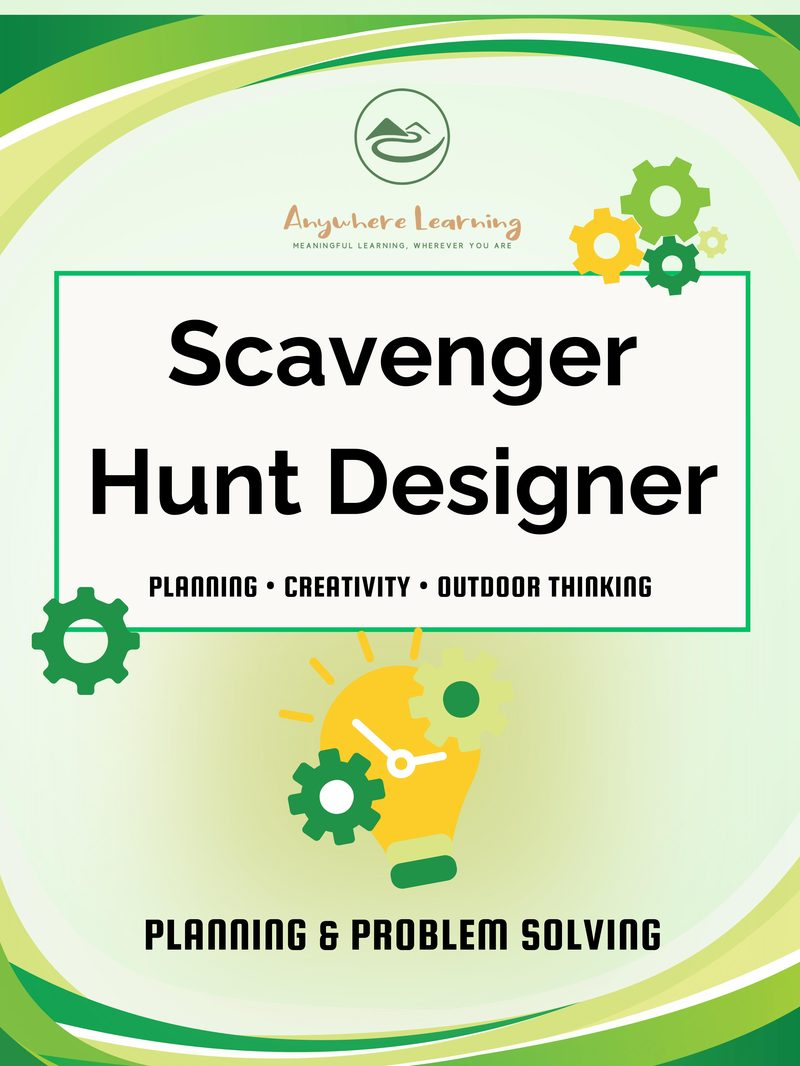
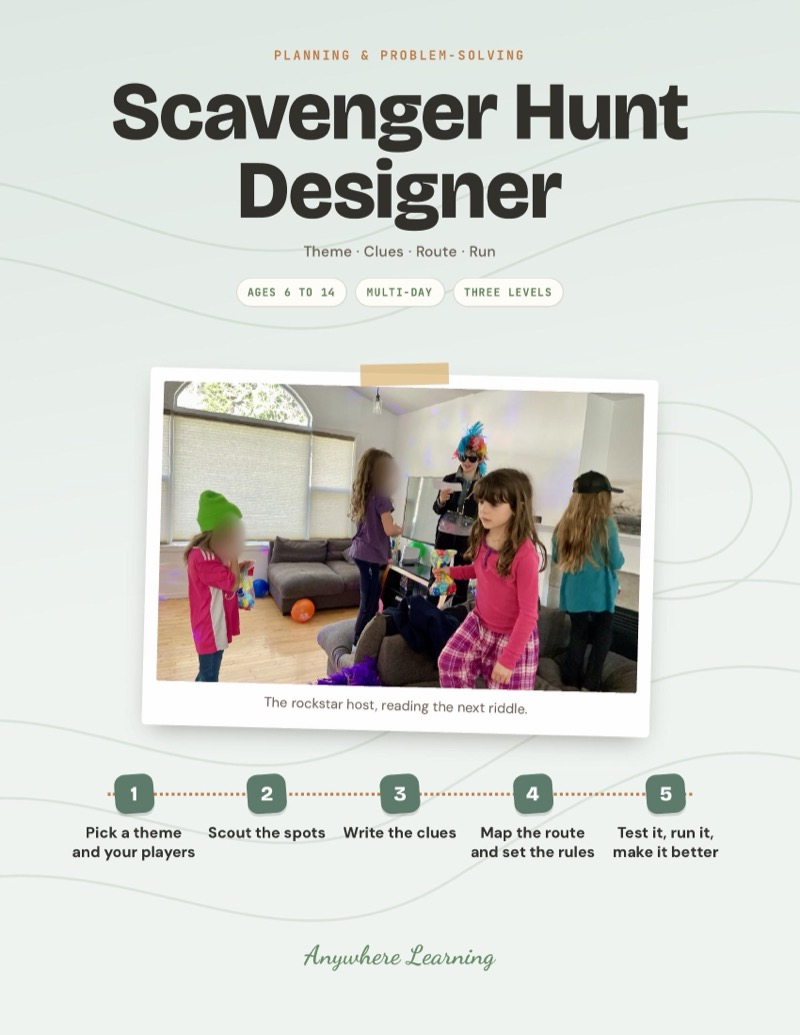
Scavenger Hunt Designer: redesigned guide, birthday hunt story + photo, new listing, planning and creativity tags

diff --git a/scripts/seed.ts b/scripts/seed.ts
@@ -115,7 +115,7 @@ async function seed() {
     { name: 'Neighbourhood Problem Spotter', slug: 'neighbourhood-problem-spotter', description: 'Your child walks the neighbourhood with you and looks at it like a detective. They spot what could work better, pick one problem worth solving, gather real evidence and find out why it happens. Then they design the simplest fix that could work, pitch it to someone who can say yes, and take care of one small part themselves.', shortDescription: 'Civic problem-solving for kids ages 6-14: spot a real problem nearby, find the cause and pitch a simple fix.', priceCents: 599, compareAtPriceCents: null, stripePriceId: '', blobUrl: '', imageUrl: '/products/neighbourhood-problem-spotter.jpg', category: 'planning-problem-solving', isBundle: false, bundleProductIds: null, activityCount: null, ageRange: 'Ages 6–14', sortOrder: 133, active: true },
     { name: 'Outdoor Survival Planner', slug: 'outdoor-survival-planner', description: 'Your child learns what to do when something goes wrong outside, the calm way. They pick a scenario like a lost trail or a storm, put the priorities in order, take stock of what is in the pack and practise real skills with you. Then they handle a twist and write the trip plan your family takes on its next outing.', shortDescription: 'Outdoor safety activity for kids ages 6-14: learn survival priorities, practise real skills and plan a real outing.', priceCents: 599, compareAtPriceCents: null, stripePriceId: '', blobUrl: '', imageUrl: '/products/outdoor-survival-planner.jpg', category: 'planning-problem-solving', isBundle: false, bundleProductIds: null, activityCount: null, ageRange: 'Ages 6–14', sortOrder: 134, active: true },
     { name: 'Pack Like a Pro', slug: 'pack-like-a-pro', description: 'Your child packs their own bag for a real trip. They work out what the trip actually needs, list everything they want, cut it down to fit real limits, then pack it and test it with some what-ifs. After the trip, they see what came home unused and build a packing list they can use year after year.', shortDescription: 'Life skill for kids ages 6-14: pack their own bag for a real trip, make real trade-offs and build a reusable list.', priceCents: 599, compareAtPriceCents: null, stripePriceId: '', blobUrl: '', imageUrl: '/products/pack-like-a-pro.jpg', category: 'planning-problem-solving', isBundle: false, bundleProductIds: null, activityCount: null, ageRange: 'Ages 6–14', sortOrder: 135, active: true },
-    { name: 'Scavenger Hunt Designer', slug: 'scavenger-hunt-designer', description: 'Design, create, and test your own scavenger hunts for friends and family.', shortDescription: 'Design your own scavenger hunts.', priceCents: 599, compareAtPriceCents: null, stripePriceId: '', blobUrl: '', imageUrl: '/products/scavenger-hunt-designer.jpg', category: 'planning-problem-solving', isBundle: false, bundleProductIds: null, activityCount: null, ageRange: 'Ages 6–14', sortOrder: 136, active: true },
+    { name: 'Scavenger Hunt Designer', slug: 'scavenger-hunt-designer', description: 'Your child designs and runs a real scavenger hunt for the family. They pick a theme, scout the spots, write clues that make players think, map the route and set the rules. Then they test it, run the whole event from the welcome to the prize, and make it better for the next round.', shortDescription: 'Planning activity for kids ages 6-14: design and run a real scavenger hunt with original clues, a route and rules.', priceCents: 599, compareAtPriceCents: null, stripePriceId: '', blobUrl: '', imageUrl: '/products/scavenger-hunt-designer.jpg', category: 'planning-problem-solving', isBundle: false, bundleProductIds: null, activityCount: null, ageRange: 'Ages 6–14', sortOrder: 136, active: true },
     { name: 'The Swap Day Challenge', slug: 'swap-day-challenge', description: 'Plan and run a swap day where you take on someone else\u2019s role or responsibilities.', shortDescription: 'Swap roles for a day.', priceCents: 599, compareAtPriceCents: null, stripePriceId: '', blobUrl: '', imageUrl: '/products/swap-day-challenge.jpg', category: 'planning-problem-solving', isBundle: false, bundleProductIds: null, activityCount: null, ageRange: 'Ages 6–14', sortOrder: 137, active: true },
     { name: 'The What-If Scenario Lab', slug: 'what-if-scenario-lab', description: 'Explore hypothetical scenarios, predict outcomes, and plan responses.', shortDescription: 'Explore what-if scenarios.', priceCents: 599, compareAtPriceCents: null, stripePriceId: '', blobUrl: '', imageUrl: '/products/what-if-scenario-lab.jpg', category: 'planning-problem-solving', isBundle: false, bundleProductIds: null, activityCount: null, ageRange: 'Ages 8–14', sortOrder: 138, active: true },
     { name: 'What Would You Do? Decision Lab', slug: 'decision-lab', description: 'Work through real decision scenarios, weigh options, and justify choices.', shortDescription: 'Practise real-world decision-making.', priceCents: 599, compareAtPriceCents: null, stripePriceId: '', blobUrl: '', imageUrl: '/products/decision-lab.jpg', category: 'planning-problem-solving', isBundle: false, bundleProductIds: null, activityCount: null, ageRange: 'Ages 6–14', sortOrder: 139, active: true },

diff --git a/lib/product-descriptions.ts b/lib/product-descriptions.ts
@@ -2159,28 +2159,24 @@ export const productDescriptions: Record<string, ProductDescription> = {
   },
   'scavenger-hunt-designer': {
     opening:
-      'Design, create, and test your own scavenger hunts for friends and family. Kids plan clues, set challenge levels, think about pacing and flow, and iterate based on real feedback. A creative planning project that builds logic, writing, and design thinking.',
+      'Your child designs and runs a real scavenger hunt for the family. They pick a theme, scout the spots, write clues that make players think, map the route and set the rules. Then they test it, run the whole event from the welcome to the prize, and make it better for the next round.',
     whatsIncluded: [
-      'Scavenger hunt design guide',
-      'Clue writing and difficulty balancing',
-      'Route planning and flow design',
-      'Testing with real participants',
-      'Iteration and improvement based on feedback',
+      'A 5-step guide from theme to a full event',
+      'A worked example that tests and fixes one clue',
+      'Themes card and Clue types card',
+      'Rules to decide card and Twists card',
+      'Hunt plan page for every spot, clue and hint',
     ],
-    skillTags: ['Planning', 'Creativity', 'Writing', 'Logic', 'Design Thinking'],
-    seo: {
-      title: "Design Your Own Scavenger Hunt: Kids' Project, Ages 6-14",
-      description:
-        'Kids design their own scavenger hunt: write the clues, set the difficulty, plan the route, run it for the family and improve it. Ages 6-14, no prep.',
-    },
+    skillTags: ['Planning', 'Creative Writing', 'Problem-Solving', 'Leadership', 'Communication'],
     insideTheLearning: {
       lead:
-        'Your child designs a scavenger hunt for other people, which is much harder than doing one. Clues have to be solvable but not obvious. The route has to flow. Then real participants run it, get stuck in the wrong place, and the design gets fixed.',
+        'Your child is in charge of an event other people actually play. They have to think like someone who does not know the answer, write just enough, test it on you and fix what breaks. Then they run the whole thing.',
       skills: [
-        { skill: 'Planning', where: 'Sequencing the hunt, mapping the route and planning distances that work' },
-        { skill: 'Creative Thinking', where: 'Writing clues that are solvable but not obvious, and theming the whole thing' },
-        { skill: 'Communication', where: 'Writing instructions clear enough to follow without a hint' },
-        { skill: 'Problem-Solving', where: 'Testing it on real people and fixing the clue that stopped everyone' },
+        { skill: 'Writing', where: 'Writing riddles and rules a new player can follow' },
+        { skill: 'Planning', where: 'Sequencing the clues and building the route backwards from the finish' },
+        { skill: 'Geography', where: 'Scouting spots, using landmarks and drawing the map' },
+        { skill: 'Math', where: 'Counting steps, estimating time and keeping score' },
+        { skill: 'Communication', where: 'Hosting the event and giving hints without giving it away' },
       ],
     },
     format: 'Project Guide',

diff --git a/lib/fallback-products.ts b/lib/fallback-products.ts
@@ -1913,15 +1913,15 @@ export const fallbackProducts: FallbackProduct[] = [
     name: "Scavenger Hunt Designer",
     slug: "scavenger-hunt-designer",
     description:
-      "Design, create, and test your own scavenger hunts for friends and family. Kids plan clues, set challenge levels, think about pacing, and iterate based on feedback. A creative planning project that builds logic, writing, and design thinking.",
+      "Your child designs and runs a real scavenger hunt for the family. They pick a theme, scout the spots, write clues that make players think, map the route and set the rules. Then they test it, run the whole event from the welcome to the prize, and make it better for the next round.",
     shortDescription:
-      "Activity for kids ages 6-14: design your own scavenger hunts. Planning, creativity, and outdoor play in one project.",
+      "Planning activity for kids ages 6-14: design and run a real scavenger hunt with original clues, a route and rules.",
     priceCents: 599,
     compareAtPriceCents: null,
     stripePriceId: "price_1TLo8YAkIBECpwGmZmbCzTvu",
     blobUrl: "",
     imageUrl: "/products/scavenger-hunt-designer.jpg",
-    previewFile: "Preview Planning & Problem-Solving Scavenger Hunt Designer.pdf",
+    previewFile: "Preview Planning & Problem-Solving Scavenger Hunt Designer v3.pdf",
     category: "planning-problem-solving",
     isBundle: false,
     bundleProductIds: null,

diff --git a/lib/activity-blob-urls.ts b/lib/activity-blob-urls.ts
@@ -106,7 +106,7 @@ export const ACTIVITY_BLOB_URLS: Record<string, string> = {
   "road-trip-calculator": "https://xkj3tzlgu6ylgllk.public.blob.vercel-storage.com/Real-world%20math%20-%20Road%20trip%20calculator%20v9.pdf",
   "rube-goldberg-machine": "https://xkj3tzlgu6ylgllk.public.blob.vercel-storage.com/Creativity%20%26%20Maker%20Build%20a%20Rube%20Goldberg%20Machine%20v6.pdf",
   "savings-goal-tracker": "https://xkj3tzlgu6ylgllk.public.blob.vercel-storage.com/Real-world%20math%20-%20Savings%20Goal%20Tracker%20v6.pdf",
-  "scavenger-hunt-designer": "https://xkj3tzlgu6ylgllk.public.blob.vercel-storage.com/Planning%20%26%20Problem-Solving%20Scavenger%20Hunt%20Designer%20v2.pdf",
+  "scavenger-hunt-designer": "https://xkj3tzlgu6ylgllk.public.blob.vercel-storage.com/Planning%20%26%20Problem-Solving%20Scavenger%20Hunt%20Designer%20v3.pdf",
   "secret-code-lab": "https://xkj3tzlgu6ylgllk.public.blob.vercel-storage.com/Planning%20%26%20Problem-Solving%20Secret%20Code%20Lab%20v2.pdf",
   "seed-travelers": "https://xkj3tzlgu6ylgllk.public.blob.vercel-storage.com/Outdoor%20%26%20Nature%20-%20Seed%20Travelers%20v5.pdf",
   "shark-tank-pitch": "https://xkj3tzlgu6ylgllk.public.blob.vercel-storage.com/Entrepreneurship%20-%20The%20Shark%20Tank%20Pitch%20v2.pdf",

diff --git a/lib/roadmap.ts b/lib/roadmap.ts
@@ -457,6 +457,7 @@ const SUPPLEMENTAL_TERRITORY_TAGS: Record<string, string[]> = {
   'neighbourhood-problem-spotter': ['critical-thinking'],
   'outdoor-survival-planner': ['critical-thinking'],
   'pack-like-a-pro': ['critical-thinking'],
+  'scavenger-hunt-designer': ['self-management', 'creativity'],
 };
 
 /**
